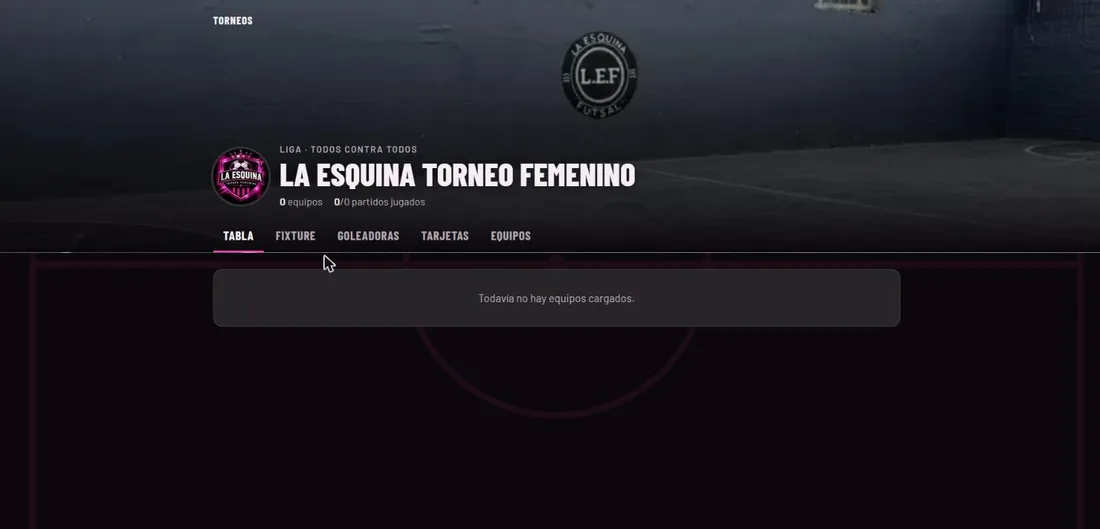
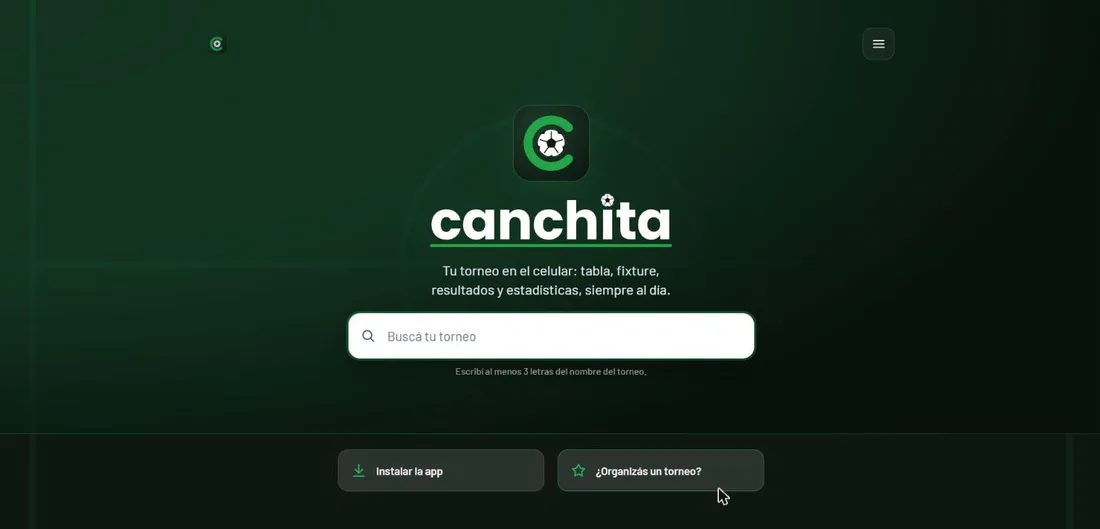
Actualizar Canchita: dominio propio, nueva captura y descripción
Claude-Session: https://claude.ai/code/session_016EHpy4dhio7BhqzW38Z6ow

diff --git a/src/data.js b/src/data.js
@@ -59,12 +59,12 @@ export const PROJECTS = [
   {
     id: 'canchita', category: 'negocios',
     name: 'Canchita',
-    business: 'Plataforma para ligas de fútbol amateur · primer cliente: La Esquina Torneo Femenino',
-    problem: 'Dejar las planillas y los grupos de WhatsApp: que jugadoras y público sigan el torneo desde el celular y que los organizadores carguen todo sin ayuda técnica.',
-    built: 'App mobile-first para varios torneos, con vista pública (tabla, fixture, goleadoras, tarjetas y equipos) y panel para organizadores con fixture automático. Cada torneo queda aislado con seguridad en la base de datos (Row Level Security), los cálculos se hacen con vistas en PostgreSQL y tiene 62 pruebas automáticas. Instalable como PWA.',
-    tech: ['PostgreSQL', 'Supabase', 'JavaScript', 'Cloudflare Pages', 'PWA', 'Playwright'],
-    image: '/projects/canchita.webp', imageAlt: 'Captura de la app Canchita con la portada de La Esquina Torneo Femenino y sus pestañas de tabla, fixture, goleadoras, tarjetas y equipos',
-    url: 'https://torneos-app.pages.dev',
+    business: 'App para torneos de fútbol amateur · en producción con La Esquina Torneo Femenino',
+    problem: 'Los torneos amateur se organizan por WhatsApp: la tabla circula como foto, los resultados se pierden y el organizador arma las planillas a mano cada fecha.',
+    built: 'App web y Android donde el organizador carga equipos y resultados, y el fixture, la tabla, los playoffs, las estadísticas y el perfil de cada jugadora se actualizan solos. Importación de planteles desde Excel, CSV o WhatsApp, planillas de partido para imprimir e inscripciones online. Multi-torneo sobre PostgreSQL (Supabase) con seguridad por fila y el DNI protegido, probado con Playwright.',
+    tech: ['JavaScript', 'PostgreSQL', 'Supabase', 'Cloudflare Pages', 'PWA', 'Playwright'],
+    image: '/projects/canchita.webp', imageAlt: 'Portada de Canchita con el logo y el buscador de torneos',
+    url: 'https://canchitatorneos.com.ar',
   },
   {
     id: 'invierte-merida', category: 'landings',
